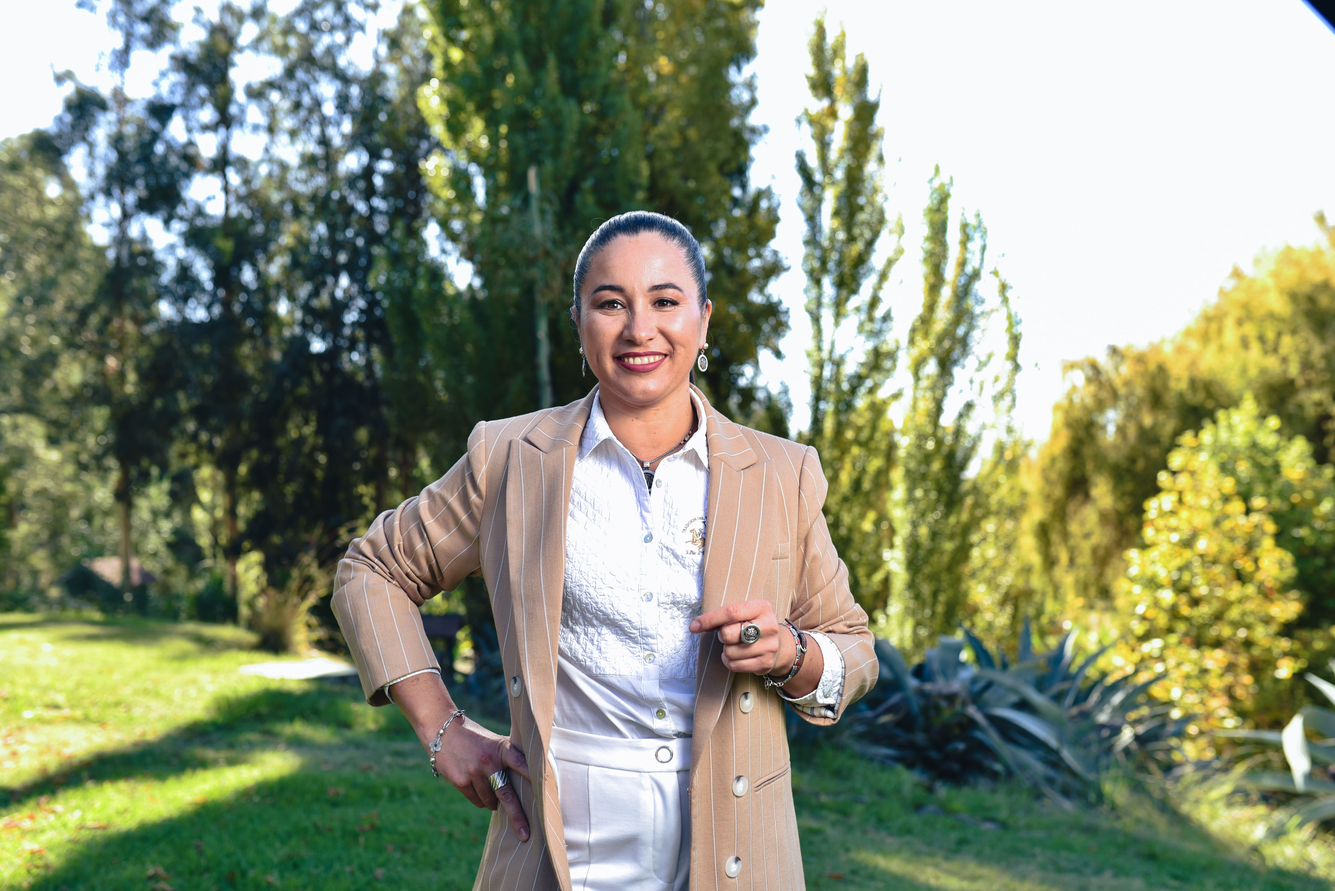
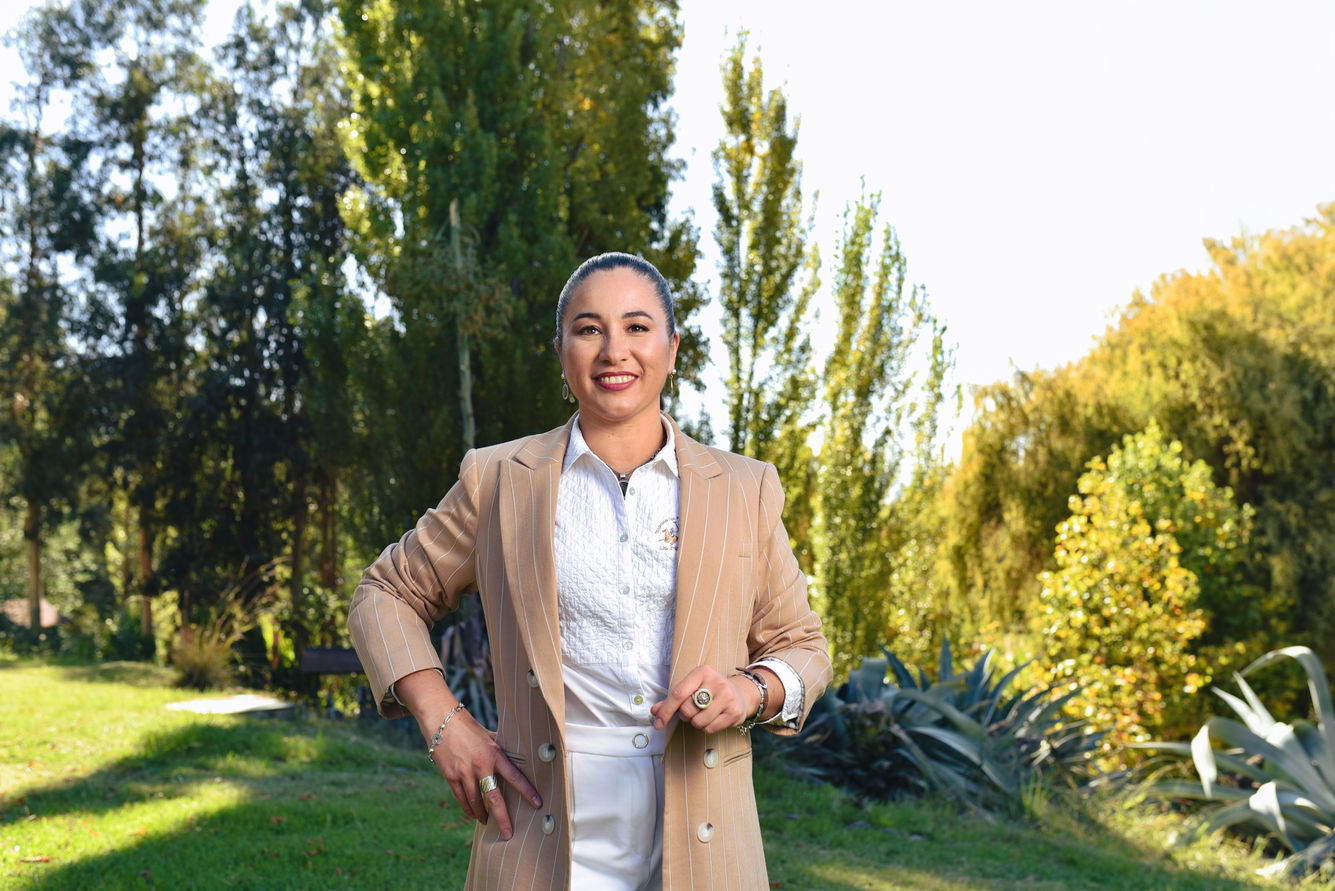
all98

diff --git a/index.html b/index.html
@@ -87,14 +87,14 @@
       <h2 class="section-title pb-5">MISIÓN & VISIÓN</h2>
       <div class="mision-vision-container">
         <div class="mision">
-          <img src="assets/img/why.jpg" alt="Misión APR Maule">
+          <img src="assets/img/1.jpg" alt="Misión APR Maule">
           <h3>MISIÓN</h3>
           <p>
             Brindamos asesoría integral a empresarios y emprendedores, ofreciendo soluciones prácticas y efectivas que aseguren el cumplimiento de las normativas legales en seguridad laboral y ambiental. Guiamos el desarrollo de nuestras empresas clientes con un compromiso absoluto hacia la protección de la privacidad de su información y aplicando los principios de mejora continua. Nuestro objetivo es proporcionar un servicio de altos estándares, ejecutado exclusivamente por profesionales altamente capacitados, que impulse el crecimiento y la sostenibilidad de cada empresa.
           </p>
         </div>
         <div class="vision">
-          <img src="assets/img/numeros.jpg" alt="Visión APR Maule">
+          <img src="assets/img/2.jpg" alt="Visión APR Maule">
           <h3>VISIÓN</h3>
           <p>
             Convertirnos en la consultora líder de asesoría empresarial a nivel regional y nacional, destacando por nuestra eficiencia, confiabilidad y capacidad de adaptación. Queremos ser reconocidos como un socio estratégico esencial, brindando soluciones innovadoras, asertivas y de alta calidad que optimicen los procesos de seguridad laboral y ambiental, contribuyendo al éxito y bienestar de las empresas que asesoramos.

diff --git a/assets/css/style.css b/assets/css/style.css
@@ -71,6 +71,7 @@
   height: 100vh;
   padding: 20px;
   padding-top: 145px;
+  padding-bottom: 100px;
 }
 .content-container {
   display: flex;
@@ -104,13 +105,13 @@
   width: 50%;
   position: absolute;
   right: 0;
-  top: 50%;
+  top: -200%;
   transform: translateY(-50%);
- 
+  transform: translateX(-30%);
 }
 .image-container img {
   width: 150%;
-  max-width: 500px;
+  max-width: 800px;
   height: auto;
   border-radius: 15px;
   box-shadow: 0 4px 8px rgba(0, 0, 0, 0.1);
